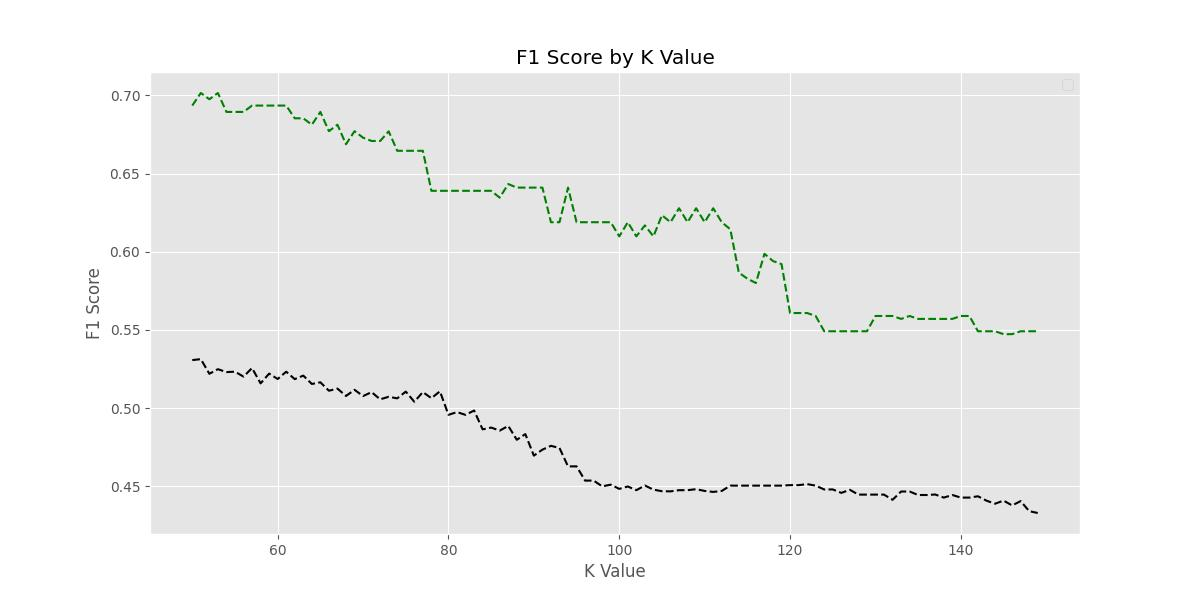
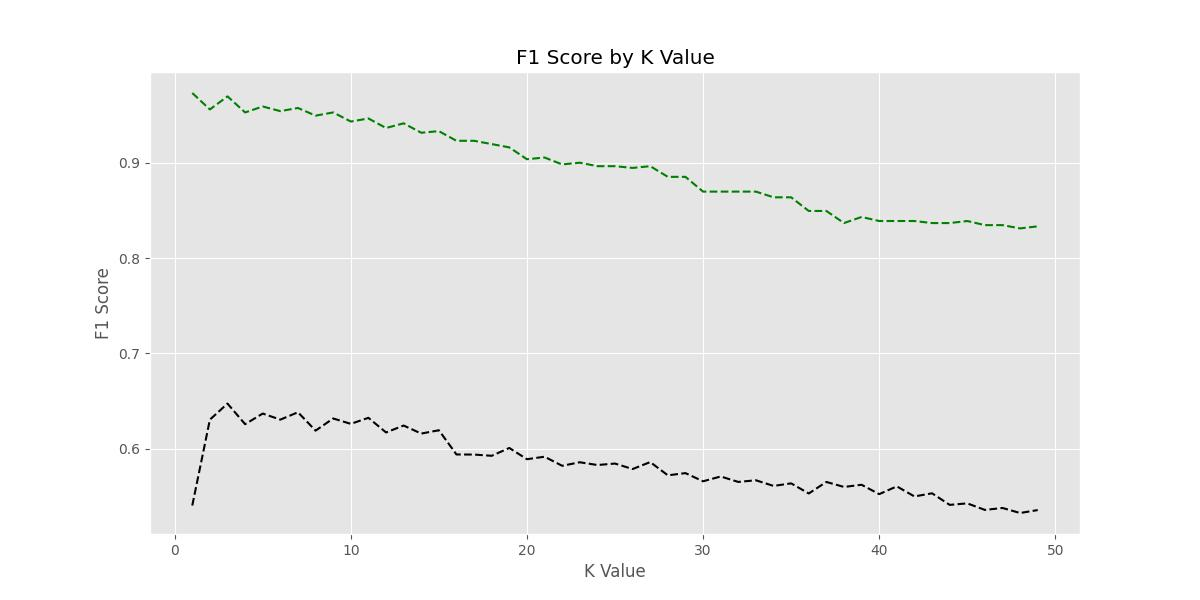
update

diff --git a/knn.py b/knn.py
@@ -41,8 +41,8 @@ def main():
     X_train, X_test, y_train, y_test = train_test_split(df,labels, test_size=0.2, random_state=123)
 
     # Calculating error for K values
-    k_min = 50
-    k_max = 150
+    k_min = 1
+    k_max = 50
     for i in range(k_min, k_max):
         knn_cv = KNeighborsClassifier(n_neighbors=i)
         cv.append((cross_val_score(knn_cv, X, y, cv=5, scoring='f1')).mean())
@@ -51,7 +51,7 @@ def main():
         pred_i = knn.predict(X_test)
         # error.append(np.mean(pred_i != y_test))
         # accuracy.append(np.mean(pred_i == y_test))
-        f_score.append(metrics.f1_score(y_test, list(pred_i)))
+        f_score.append(metrics.f1_score(y_test, list(pred_i), average='macro'))
     plt.figure(figsize=(12, 6))
     # plt.plot(range(k_min, k_max), f_score, color='black', linestyle='dashed', marker='x',
     # markerfacecolor='green', markersize=10)
@@ -78,20 +78,10 @@ def main():
     model = grid.fit(X_train, y_train)
     print(model.best_params_)
 
-    # accuracy = model.best_score_ *100
-    # print("Accuracy for our training dataset with tuning is : {:.2f}%".format(accuracy) )
-
-    X_train, X_test, y_train, y_test = train_test_split(df,labels, test_size=0.1, random_state=123)
-
-    classifier = KNeighborsClassifier(n_neighbors=model.best_params_['n_neighbors'])
-    classifier.fit(X_train, y_train)
-    y_pred = classifier.predict(X_test)
-
+    y_pred = model.predict(X_test)
+    report = classification_report(y_test, y_pred) 
     print(confusion_matrix(y_test, y_pred))
-
-    report = classification_report(y_test, y_pred)
     print(report)
-
 
     ## SHAP
     # X_train, X_test, y_train, y_test = train_test_split(df,labels, test_size=0.03, random_state=123)
@@ -100,6 +90,8 @@ def main():
     # shap.summary_plot(shap_values, X_test)
 
 
+    FP = X_test[(y_test == 0) & (y_pred == 1)]
+    print(FP)
 
 
 
